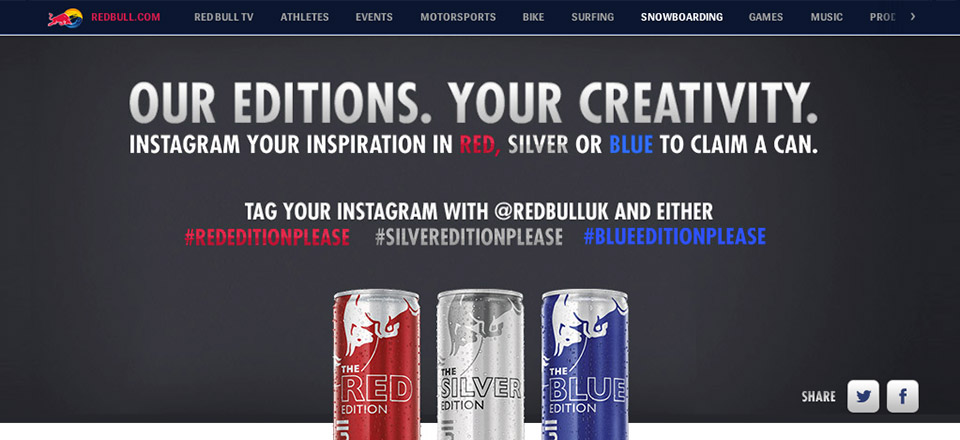
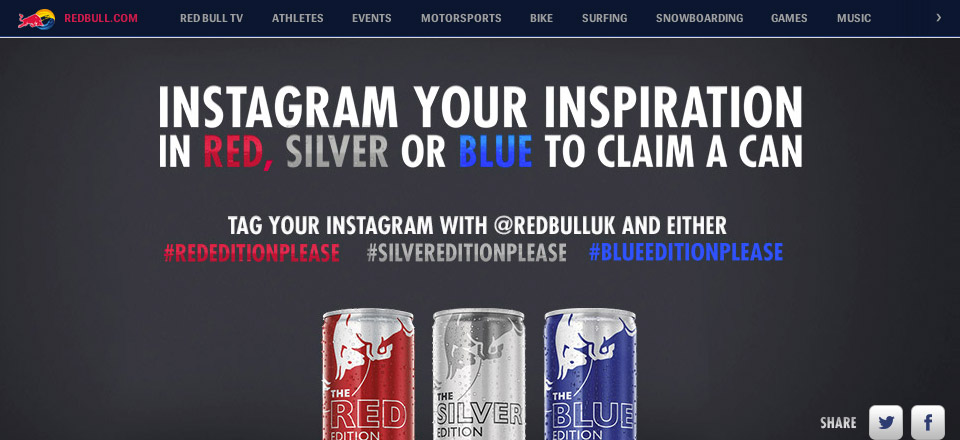
Final redbull updates

diff --git a/case-study/redbull/index.php b/case-study/redbull/index.php
@@ -2,7 +2,7 @@
 $author = 'Rohan Chambers';
 $browserDescription = 'This website is primarily designed to be an online portfolio presence for Rohan Chambers, a freelance Web Designer/Developer based in London, UK.';
 $browserKeywords = 'rohan chambers, rohan, chambers, freelance front end developer, front end developer, web designer, web development, xhtml, css, html5, css3, jquery, w3c, web standards';
-$browserTitle = 'Redbull Our Editions | RohanChambers.net';
+$browserTitle = 'Redbull Editions, Instagram your Inspiration | RohanChambers.net';
 $classBody = 'case-study';
 $thisPage='portfolio';
 ?>
@@ -16,7 +16,7 @@ $thisPage='portfolio';
 					<li><a href="../jaguar/jaguar-desire" class="go-next" title="Next Project"></a></li>
 				</ul>
 				<div class="hr"></div>			
-				<h2>Redbull, Our Editions</h2>
+				<h2>Redbull Editions<br>Instagram your Inspiration</h2>
 				<ul class="case-study-details">
 					<li><strong>Date: </strong>March 2013</li>
 					<li><strong>Client: </strong>Redbull</li>	

diff --git a/includes/php/carousel.php b/includes/php/carousel.php
@@ -7,8 +7,8 @@
 		<li>
 			<a href="case-study/redbull/"><img src="../../img/pages/home/carousel/redbull.jpg" alt="Redbull, Our Editions" width="960" height="420" /></a>
 			<div class="captions">
-			    <h3>Redbull Our Editions</h3>
-				<p>I worked on this Facebook app. game for Tiger Beer as a front end developer. The player to get the highest score on Zodiac Pairs game during Chinese New Year will be in with the chance to win an awesome trip to Singapore.<br />
+			    <h3>Redbull Editions, Instagram your Inspiration</h3>
+				<p>I developed the complete front-end build for this Redbull microsite. The site is completely responsive for all major mobile devices including the iPad and iPhone. Interaction with the Instagram API for all data calling by the back-end developers I work with.
 			    <a class="find-more" href="case-study/redbull/">Find out more</a></p>
 			</div>													
 		</li>
